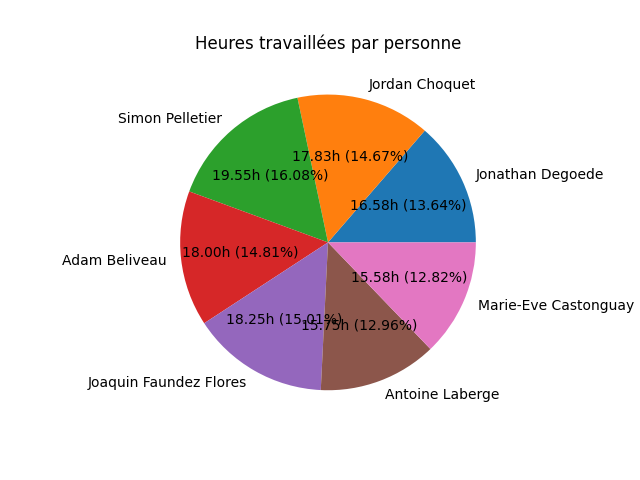
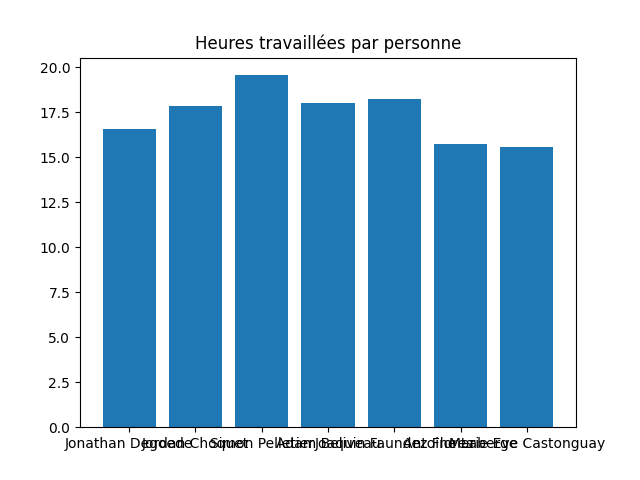
bar chart

diff --git a/main.py b/main.py
@@ -20,7 +20,7 @@ def make_pie_chart(filename):
     data['time'] = data['time'].apply(lambda x: int(x)/3600)
 
     plt.figure()
-    plt.pie(data['time'], labels=data['Author'], autopct=slice_value)
+    plt.bar(height=data['time'], x=data['Author'])
     plt.title('Heures travaillées par personne')
     plt.savefig(join(dirname(__file__), f'pie_chart_{datetime.datetime.now().date()}.png'), format='png')
 
